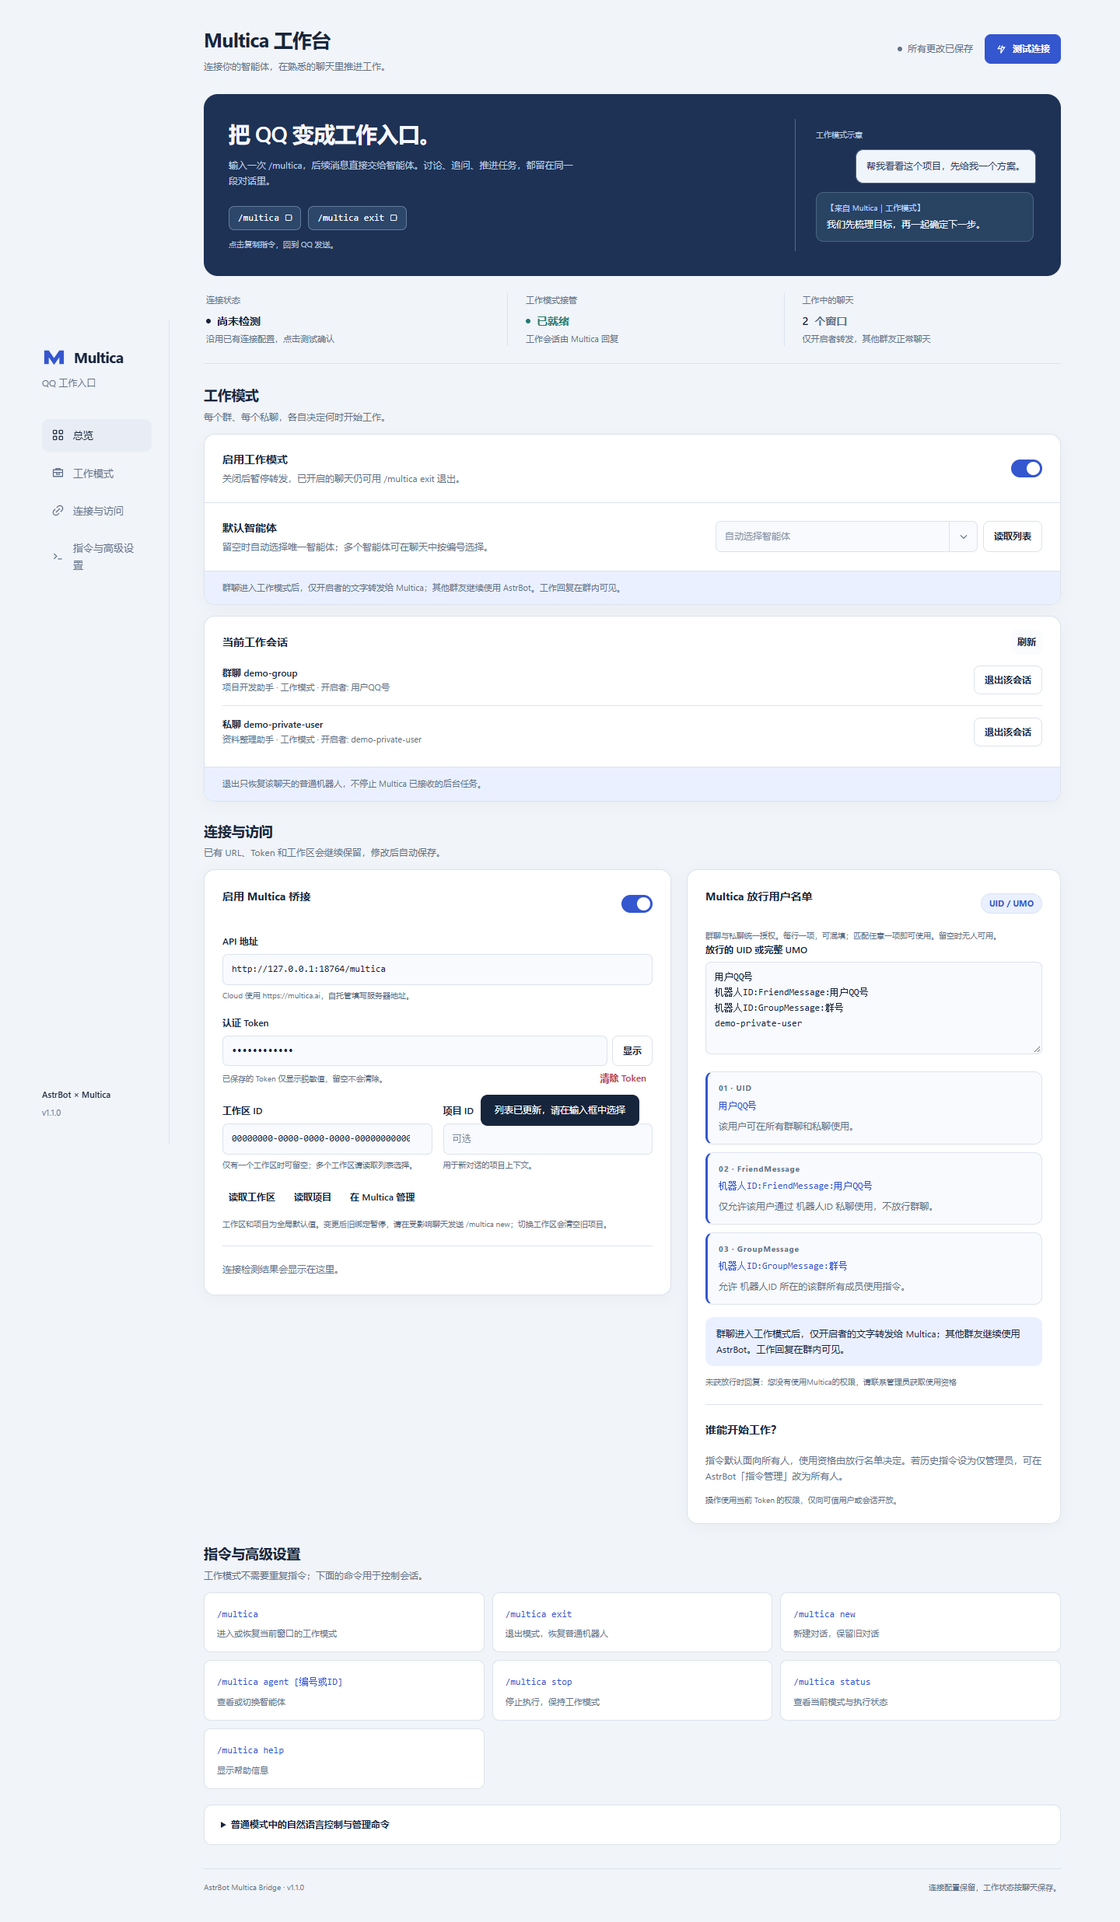
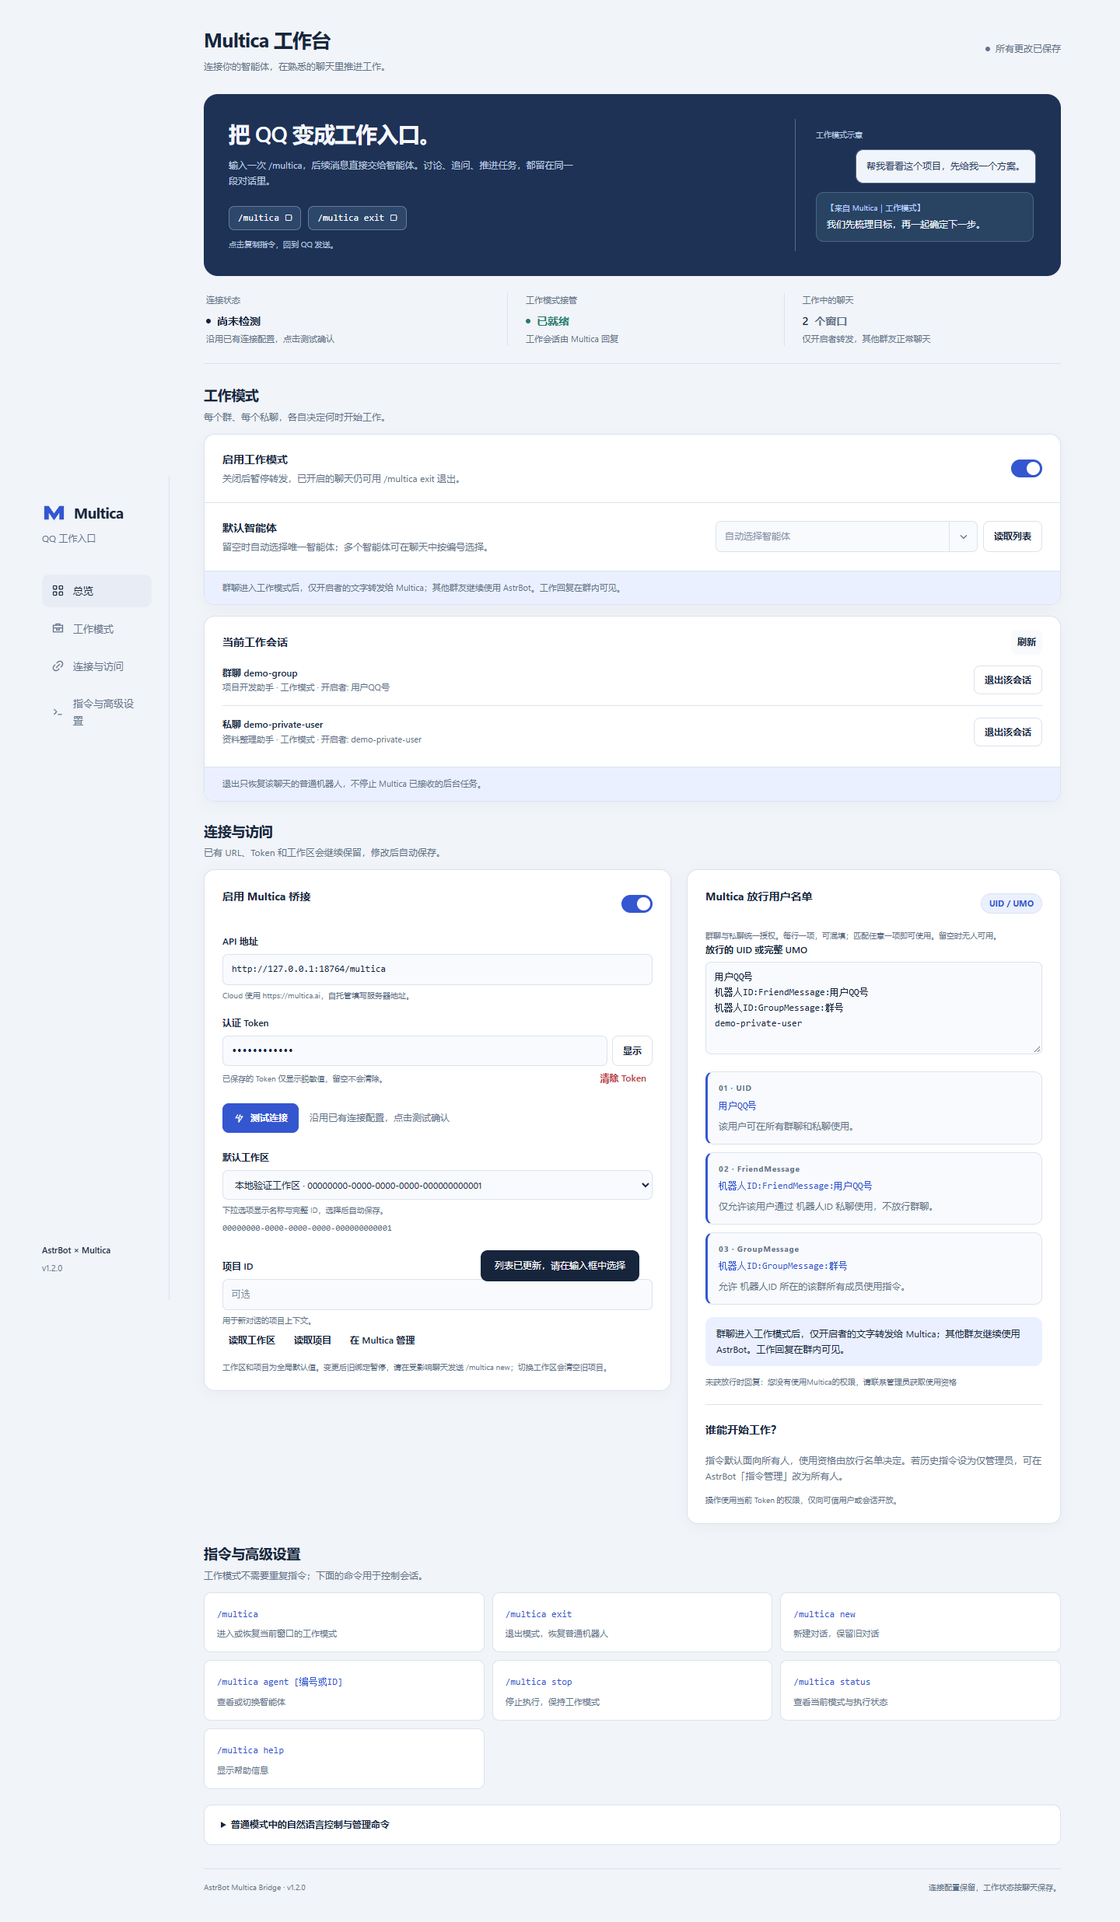
feat: prepare 1.2.0 Issue list naming and workspace connection UI

diff --git a/pages/settings/index.html b/pages/settings/index.html
@@ -1148,7 +1148,7 @@
           >
         </nav>
         <div class="rail-foot">
-          <b>AstrBot × Multica</b><span>v1.1.0</span>
+          <b>AstrBot × Multica</b><span>v1.2.0</span>
         </div>
       </aside>
       <main>
@@ -1524,7 +1524,7 @@
                 <div>
                   <h3 data-i18n="settings.nl.enabled">启用自然语言控制</h3>
                   <p class="setting-description" data-i18n="settings.ui.nlHint">
-                    普通模式识别进入工作模式、收件箱查询和 Issue 草稿，写入前需本人确认。
+                    普通模式识别进入工作模式、Issue列表查询和 Issue 草稿，写入前需本人确认。
                   </p>
                 </div>
                 <label class="toggle"
@@ -1565,14 +1565,14 @@
                 class="setting-description"
                 data-i18n="settings.ui.managementHint"
               >
-                原有 issue、inbox、workspace、project 命令继续可用。发送
+                高级入口：/multica inbox（Issue列表）、/multica issue create。旧 workspace/project 命令保留兼容，建议在设置页管理全局默认值。
                 /multica help 查看说明。
               </p>
             </div>
           </details>
         </section>
         <footer class="footer">
-          <span>AstrBot Multica Bridge · v1.1.0</span
+          <span>AstrBot Multica Bridge · v1.2.0</span
           ><span data-i18n="settings.ui.footer"
             >连接配置保留，工作状态按聊天保存。</span
           >

diff --git a/main.py b/main.py
@@ -157,9 +157,9 @@ class Main(WorkModeMixin, WebApiMixin, Star):
         """检查 Multica 连接与当前工作区/项目状态。"""
         await self._run(event, partial(self._cmd_status, event))
 
-    @multica.command("inbox", alias={"收件箱"})
+    @multica.command("inbox", alias={"Issue列表", "issue列表", "收件箱"})
     async def multica_inbox(self, event: AstrMessageEvent) -> None:
-        """查看收件箱：最近 Issue 及进展。"""
+        """查看 Issue列表：最近 Issue 及进展。"""
         await self._run(
             event,
             partial(self._cmd_inbox, event, self._args(event, 2)),
@@ -254,7 +254,7 @@ class Main(WorkModeMixin, WebApiMixin, Star):
             f"可直接说：\n"
             f"• {kw} 建个issue：修复登录，优先级高\n"
             f"• 进入{kw}模式 / 切换为{kw}工作\n"
-            f"• {kw} 收件箱 10 open\n"
+            f"• {kw} Issue列表 10 open\n"
             f"• {kw} status / {kw} 帮助\n"
             f"也可使用指令：/multica help"
         )
@@ -763,7 +763,7 @@ class Main(WorkModeMixin, WebApiMixin, Star):
         # API 不支持按 updated_at 排序，拉取较新窗口后在本地方完成排序与截断
         result = await client.list_issues(limit=50)
         if not result["ok"]:
-            await self._reply(event, f"❌ 获取收件箱失败：{result['message']}")
+            await self._reply(event, f"❌ 获取Issue列表失败：{result['message']}")
             return
 
         issues = result.get("issues") or []
@@ -783,7 +783,7 @@ class Main(WorkModeMixin, WebApiMixin, Star):
 
         if not issues:
             empty_msg = {
-                "": "当前收件箱为空",
+                "": "当前Issue列表为空",
                 "open": "当前没有未完成的 Issue",
                 "done": "当前没有已完成的 Issue",
             }[status_filter]
@@ -796,7 +796,7 @@ class Main(WorkModeMixin, WebApiMixin, Star):
         }
         names = await client.resolve_assignee_names(assignee_ids)
 
-        head = f"📥 Multica 收件箱（最新创建 50 条内筛选，展示 {len(issues)} 条"
+        head = f"📋 Multica Issue列表（最新创建 50 条内筛选，展示 {len(issues)} 条"
         if status_filter == "open":
             head += " · 未完成"
         elif status_filter == "done":

diff --git a/tests/test_issue_list.py b/tests/test_issue_list.py
@@ -1,0 +1,41 @@
+import asyncio
+import importlib
+
+import pytest
+from astrbot_plugin_multica_bridge import nl_control as nl
+
+
+@pytest.mark.parametrize(
+    "result",
+    [
+        {"ok": True, "issues": []},
+        {"ok": True, "issues": [{"id": "issue-one", "title": "修复登录"}]},
+        {"ok": False, "message": "HTTP 403"},
+    ],
+)
+def test_issue_list_uses_correct_name_for_results_empty_and_errors(
+    nl_plugin, monkeypatch, result
+):
+    plugin, _, replies = nl_plugin
+    client = importlib.import_module("astrbot_plugin_multica_bridge.multica_client")
+
+    async def listing(self, **kwargs):
+        return result
+
+    async def names(self, ids):
+        return {}
+
+    monkeypatch.setattr(client.MulticaClient, "list_issues", listing)
+    monkeypatch.setattr(client.MulticaClient, "resolve_assignee_names", names)
+    asyncio.run(plugin._cmd_inbox(object(), ""))
+    assert len(replies) == 1
+    assert "Issue列表" in replies[0]
+    assert "收件箱" not in replies[0]
+
+
+@pytest.mark.parametrize("name", ["Issue列表", "issue列表", "收件箱", "inbox"])
+def test_new_name_and_legacy_names_keep_query_arguments(name):
+    result = nl.parse_control_request(f"multica {name} 5 open")
+    assert result.status == "executable"
+    assert result.request.name == "inbox"
+    assert result.request.fields == {"count": 5, "status": "open"}

diff --git a/actions.py b/actions.py
@@ -33,7 +33,7 @@ def help_text() -> str:
     return (
         "Multica 工作模式\n"
         + "\n".join(f"{cmd} — {desc}" for cmd, desc in MAIN_COMMANDS)
-        + "\n\n高级功能：/multica inbox、/multica issue create\n兼容管理：workspace/project 的 list/select/create 仍可使用，默认工作区与项目全局生效，建议使用 WebUI 设置。\n自然语言：进入multica模式、切换为multica工作；创建 Issue 需本人确认。\n群聊仅开启者的文字转发；回复在群内可见。退出使用 /multica exit。"
+        + "\n\n高级功能：/multica inbox（Issue列表）、/multica issue create\n兼容管理：workspace/project 的 list/select/create 仍可使用，默认工作区与项目全局生效，建议使用 WebUI 设置。\n自然语言：进入multica模式、切换为multica工作；创建 Issue 需本人确认。\n群聊仅开启者的文字转发；回复在群内可见。退出使用 /multica exit。"
     )
 
 

diff --git a/nl_control.py b/nl_control.py
@@ -58,7 +58,7 @@ _NOISE_PREFIXES = (
 
 # 可直接映射到既有子指令的「指令风格」尾巴
 _CMD_TAIL = re.compile(
-    r"^(?P<head>help|status|inbox|h|帮助|状态|收件箱)\b",
+    r"^(?P<head>help|status|inbox|h|帮助|状态|issue列表|收件箱)\b",
     re.IGNORECASE,
 )
 
@@ -449,7 +449,7 @@ def parse_nl_intent(text: str, keyword: str = "multica") -> NLIntent | None:
             return NLIntent("help")
         if token in ("status", "状态"):
             return NLIntent("status")
-        if token in ("inbox", "收件箱"):
+        if token in ("inbox", "issue列表", "收件箱"):
             return NLIntent("inbox", _normalize_inbox_args(rest))
         return None
 

diff --git a/structured_nl.py b/structured_nl.py
@@ -53,7 +53,7 @@ def validate_action_fields(
         return {}
     if action == "inbox":
         if set(fields) - {"count", "status"}:
-            raise ValueError("未知收件箱字段")
+            raise ValueError("未知Issue列表字段")
         count, status = fields.get("count", 10), fields.get("status", "")
         if (
             type(count) is not int

diff --git a/tests/test_commands.py b/tests/test_commands.py
@@ -168,6 +168,8 @@ EXPECTED_COMMANDS = {
     "multica 状态",
     "multica inbox",
     "multica 收件箱",
+    "multica Issue列表",
+    "multica issue列表",
     # issue
     "multica issue create",
     "multica issue 新建",

diff --git a/scripts/build_package.py b/scripts/build_package.py
@@ -26,7 +26,7 @@ FILES = (
     "config.example.json",
     "README.md",
     "CHANGELOG.md",
-    "docs/verification-1.1.0.md",
+    "docs/verification-1.2.0.md",
     "LICENSE",
     "logo.svg",
     "logo.png",

diff --git a/README.md b/README.md
@@ -1,12 +1,12 @@
 <div align="center">
 
-<img src="https://raw.githubusercontent.com/Eason4869/astrbot_plugin_multica_bridge/v1.1.0/logo.svg" width="88" height="88" alt="Multica Bridge" />
+<img src="https://raw.githubusercontent.com/Eason4869/astrbot_plugin_multica_bridge/dev/logo.svg" width="88" height="88" alt="Multica Bridge" />
 
 # AstrBot Multica Bridge
 
 **在 QQ 中进入 Multica，连续对话，随时退出。**
 
-![Version](https://img.shields.io/badge/version-1.1.0-3456cf)
+![Version](https://img.shields.io/badge/version-1.2.0-3456cf)
 ![Branch](https://img.shields.io/badge/branch-main-475569)
 ![Python](https://img.shields.io/badge/Python-3.10%2B-3776AB)
 ![AstrBot](https://img.shields.io/badge/AstrBot-%E2%89%A54.27.2-4f8cff)
@@ -40,7 +40,7 @@
 | 聊天窗口隔离 | 仅开启者的文字转发；同群其他成员、其他群和私聊继续正常使用 AstrBot |
 | 来源提示 | 每段工作回复、错误提示均带 `【来自 Multica｜工作模式】` |
 | 会话管理 | 恢复对话、新建 Chat、选择智能体、停止执行；WebUI 可退出指定窗口 |
-| 保留原功能 | Issue、收件箱及兼容管理命令保留；自然语言支持进入模式、查询和 Issue 草稿确认 |
+| 保留原功能 | Issue创建、Issue列表及兼容管理命令保留；自然语言支持进入模式、查询和 Issue 草稿确认 |
 | 升级保留连接 | 沿用旧配置路径和字段，保留 URL、Token、工作区、项目与访问规则 |
 
 ## 开始使用
@@ -49,7 +49,7 @@
 
 ### 1. 安装正式版
 
-在 AstrBot 插件管理中通过仓库地址安装或更新：`https://github.com/Eason4869/astrbot_plugin_multica_bridge`。正式版本使用 `main` 分支，开发更新使用 `dev` 分支。也可从 [v1.1.0 Release](https://github.com/Eason4869/astrbot_plugin_multica_bridge/releases/tag/v1.1.0) 下载安装 ZIP 和 SHA256 校验文件，或在 AstrBot 插件目录手动安装：
+在 AstrBot 插件管理中通过仓库地址安装或更新：`https://github.com/Eason4869/astrbot_plugin_multica_bridge`。正式版本使用 `main` 分支，开发更新使用 `dev` 分支。也可从 [Releases](https://github.com/Eason4869/astrbot_plugin_multica_bridge/releases) 下载已发布版本的安装 ZIP 和 SHA256 校验文件，或在 AstrBot 插件目录手动安装：
 
 ```bash
 cd AstrBot/data/plugins
@@ -129,7 +129,7 @@ plugin_data/astrbot_plugin_multica_bridge/config.json
 
 ## WebUI 工作台
 
-<img src="https://raw.githubusercontent.com/Eason4869/astrbot_plugin_multica_bridge/v1.1.0/assets/workbench.png" width="1100" alt="Multica 工作台：连接状态、工作模式开关、智能体与当前工作会话" />
+<img src="https://raw.githubusercontent.com/Eason4869/astrbot_plugin_multica_bridge/dev/assets/workbench.png" width="1100" alt="Multica 工作台：连接测试、默认工作区下拉框、智能体与当前工作会话" />
 
 *界面示例，地址、群号与会话均为演示数据。*
 
@@ -176,7 +176,7 @@ plugin_data/astrbot_plugin_multica_bridge/config.json
 | 指令 | 用途 |
 | --- | --- |
 | `/multica issue create <标题> [选项]` | 新建 Issue |
-| `/multica inbox [数量] [open\|done]` | 查看收件箱，默认 10 条 |
+| `/multica inbox [数量] [open\|done]` | 查看Issue列表，默认 10 条 |
 | `/multica workspace list` | 列出工作区 |
 | `/multica workspace select <id\|slug>` | 切换工作区并保存配置 |
 | `/multica workspace create <名称> [--slug …] [--desc …] [--context …]` | 新建工作区 |
@@ -190,18 +190,20 @@ plugin_data/astrbot_plugin_multica_bridge/config.json
 
 Issue 可选参数：`--desc`、`--priority`（紧急／高／中／低或英文）、`--status`、`--assignee`、`--project`、`--due YYYY-MM-DD`、`--labels 标签1,标签2`。这些功能通过 HTTP API 调用，不需要本机安装 Multica CLI。旧管理命令保留原权限配置；工作区与项目选择全局生效，建议在 WebUI 读取列表并选择。切换工作区清空旧项目，旧 Chat 绑定暂停，需要 `/multica new`。
 
+这里的 **Issue列表** 查询当前工作区的 Issue，不是 Multica 的通知收件箱。可使用 `/multica Issue列表` 或 `/multica issue列表`；原 `/multica inbox` 和中文旧别名继续兼容。
+
 ### 普通模式自然语言控制
 
 未进入工作模式时，可用关键词触发原有管理功能：
 
 ```text
 multica 建个issue：修复登录失败，优先级高
-multica 收件箱 10 open
+multica Issue列表 10 open
 进入multica模式
 切换为multica工作
 ```
 
-规则优先解析，明确进入语句不消耗 AstrBot 模型。可执行意图为进入模式、帮助、状态、收件箱和创建 Issue。Issue 先显示草稿，120 秒内由本人回复“确认 六位短码”才提交，可回复“取消 六位短码”；重复确认不会重复写入。否定、教学、引用和复合请求不自动执行，项目/工作区的自然语言管理改为设置页指引。
+规则优先解析，明确进入语句不消耗 AstrBot 模型。可执行意图为进入模式、帮助、状态、Issue列表和创建 Issue。Issue 先显示草稿，120 秒内由本人回复“确认 六位短码”才提交，可回复“取消 六位短码”；重复确认不会重复写入。否定、教学、引用和复合请求不自动执行，项目/工作区的自然语言管理改为设置页指引。
 
 规则无法解析时，由 `nl_llm_enabled` 决定是否调用模型，限时 10 秒且不自动重试。工作模式文字直接转发给 Multica，退出使用 `/multica exit`；说“退出工作模式”不会改变本地模式。
 
@@ -286,8 +288,8 @@ Remove-Variable multicaHeaders, multicaCredential, multicaSecureToken
 
 **已经验证了哪些环境？**
 
-Python 3.10 / 3.12 各 182 项测试通过，覆盖旧配置升级和两个 AstrBot 源码版本；Edge 桌面/手机/主题/双语验证通过。远程检查见 [CI](https://github.com/Eason4869/astrbot_plugin_multica_bridge/actions/workflows/ci.yml)。尚未进行真实 QQ、Multica 和真实模型评测；自动化通过不代表线上联调完成。具体范围见[验证记录](https://github.com/Eason4869/astrbot_plugin_multica_bridge/blob/v1.1.0/docs/verification-1.1.0.md)。
+Python 3.10 / 3.12 各 194 项测试通过，覆盖旧配置升级、多工作区发现与两个 AstrBot 源码版本；Edge 桌面/手机/主题/双语验证通过。远程检查见 [CI](https://github.com/Eason4869/astrbot_plugin_multica_bridge/actions/workflows/ci.yml)。尚未进行真实 QQ、Multica 和真实模型评测；自动化通过不代表线上联调完成。具体范围见[验证记录](https://github.com/Eason4869/astrbot_plugin_multica_bridge/blob/dev/docs/verification-1.2.0.md)。
 
 ## 项目信息
 
-[更新日志](https://github.com/Eason4869/astrbot_plugin_multica_bridge/blob/v1.1.0/CHANGELOG.md) · [问题反馈](https://github.com/Eason4869/astrbot_plugin_multica_bridge/issues) · [Multica](https://github.com/multica-ai/multica) · [AstrBot](https://github.com/AstrBotDevs/AstrBot) · [MIT License](https://github.com/Eason4869/astrbot_plugin_multica_bridge/blob/v1.1.0/LICENSE)
+[更新日志](https://github.com/Eason4869/astrbot_plugin_multica_bridge/blob/dev/CHANGELOG.md) · [问题反馈](https://github.com/Eason4869/astrbot_plugin_multica_bridge/issues) · [Multica](https://github.com/multica-ai/multica) · [AstrBot](https://github.com/AstrBotDevs/AstrBot) · [MIT License](https://github.com/Eason4869/astrbot_plugin_multica_bridge/blob/dev/LICENSE)

diff --git a/docs/verification-1.2.0.md b/docs/verification-1.2.0.md
@@ -1,0 +1,48 @@
+# 1.2.0 验证记录
+
+日期：2026-10-19。基于 main 的 1.1.0 合并提交 `6be4fcb`，保留其权限、仅开启者转发、自然语言确认及上下文保护。
+
+## 范围与结果
+
+- Python 3.10.21、3.12.10 完整回归各 194 项通过；Ruff 及 diff 空白检查通过。
+- 新增连接测试回归：一次查询返回全部工作区的 id/name/slug，不包含 Token 或远端私有字段；区分连接有效和需要选择工作区，不自动使用第一项，不写回配置。
+- 覆盖已有选择、失效 ID、多工作区未选择、单工作区自动解析及请求失败；旧 URL/Token 升级与安装包覆盖测试继续通过。
+- 新增 Issue列表回复测试：实际结果、空态、错误均使用新名称；新旧名称保留查询数量与状态参数，命令树验证新增别名。
+- Edge 使用真实插件配置 API 和本地 Multica 样例服务，覆盖测试按钮位置、自动加载两个工作区、选择第二项并重载保留、项目清理、Token 保留、读取失败不清除原 ID、迟到响应抑制。
+- 浏览器完整回归还覆盖 UID/UMO 保存、智能体选择器、工作会话状态、自动保存竞态、Token 清除竞态、主题及语言；1440px、390px、320px 无横向溢出。
+- README PowerShell 示例经过语法解析；未使用真实 Token 执行查询。
+
+测试使用本地 HTTP、模拟 QQ 事件、模型响应和两个 AstrBot 版本源码集成，未启动完整 AstrBot 宿主或连接真实 QQ/Multica 服务，不等同于线上联调验收。上游源码快照沿用 4.27.2 与 4.29.1，详情见仓库 CI。
+
+## 复现
+
+安装项目依赖和 `pytest pyyaml aiohttp ruff`，并按 CI 下载两个 AstrBot 源码快照：
+
+```powershell
+$env:REQUIRE_UPSTREAM_TESTS = '1'
+python -m pytest -o addopts= --basetemp=.validation/test-1.2 --tb=short -q
+python -m ruff check .
+python scripts/build_package.py
+```
+
+浏览器另需 Node.js、Playwright 与 Edge。先在一个终端启动样例服务：
+
+```powershell
+python tests/browser/serve.py
+```
+
+然后在另一个终端顺序运行：
+
+```powershell
+# PLAYWRIGHT_MODULE 可指定已有 playwright 模块路径。
+node tests/browser/check.cjs
+node tests/browser/agent-picker.cjs
+node tests/browser/workspace-picker.cjs
+node tests/browser/races.cjs
+```
+
+重复完整检查前重启样例服务以恢复初始会话。服务仅监听 `127.0.0.1:18764`；配置及截图写入 `.validation`，不含用户实际部署数据。
+
+## 提交范围
+
+本次按要求推送至 dev 并创建指向 main 的 PR。未合并该 PR，未创建 v1.2.0 标签或 Release；远程 CI 状态以对应 PR 和提交的 GitHub Actions 记录为准。

diff --git a/CHANGELOG.md b/CHANGELOG.md
@@ -1,5 +1,25 @@
 # Changelog
 
+## [1.2.0] - 2026-10-19
+
+### Changed
+
+- 将“测试连接”移至 API 地址与 Token 填写区域，检测后自动读取当前 Token 可访问的全部工作区。
+- 默认工作区改为全宽下拉框，展示名称与完整 ID；选中后自动保存，完整 ID 可在下方复制。
+- 统一使用“Issue列表”名称，更新中英文设置页、帮助、QQ 回复、空态及错误提示；保留 `/multica inbox` 和旧中文别名，新增 `/multica Issue列表` 与 `/multica issue列表`。
+- README 常见问题详述设置页、QQ 命令和 PowerShell API 三种获取工作区 ID 的方法；同步界面预览与版本信息。
+
+### Fixed
+
+- 连接测试分别报告凭据连通状态与工作区选择状态，存在多个工作区但未选择时可正常展示全部选项，不自动选第一项。
+- 读取列表和渲染下拉框不改写旧配置；保留已选工作区，读取失败时不清空已保存 ID；URL/Token 变更后丢弃旧列表与迟到响应。
+
+### Validation
+
+- Python 3.10 / 3.12 各 194 项本地回归；新增工作区发现与 Issue列表结果/空态/错误文案测试。
+- Edge 覆盖多工作区选择与持久化、失败后保留 ID、旧请求抑制、Token 保留及清除竞态，以及桌面/390px/320px、深浅主题、中英文布局。
+- 保留 1.1.0 的仅开启者转发、UID/UMO 放行、Issue 确认与上下文保护；真实 QQ、Multica 和模型联调仍需部署环境验收。
+
 ## [1.1.0] - 2026-10-19
 
 ### Changed
